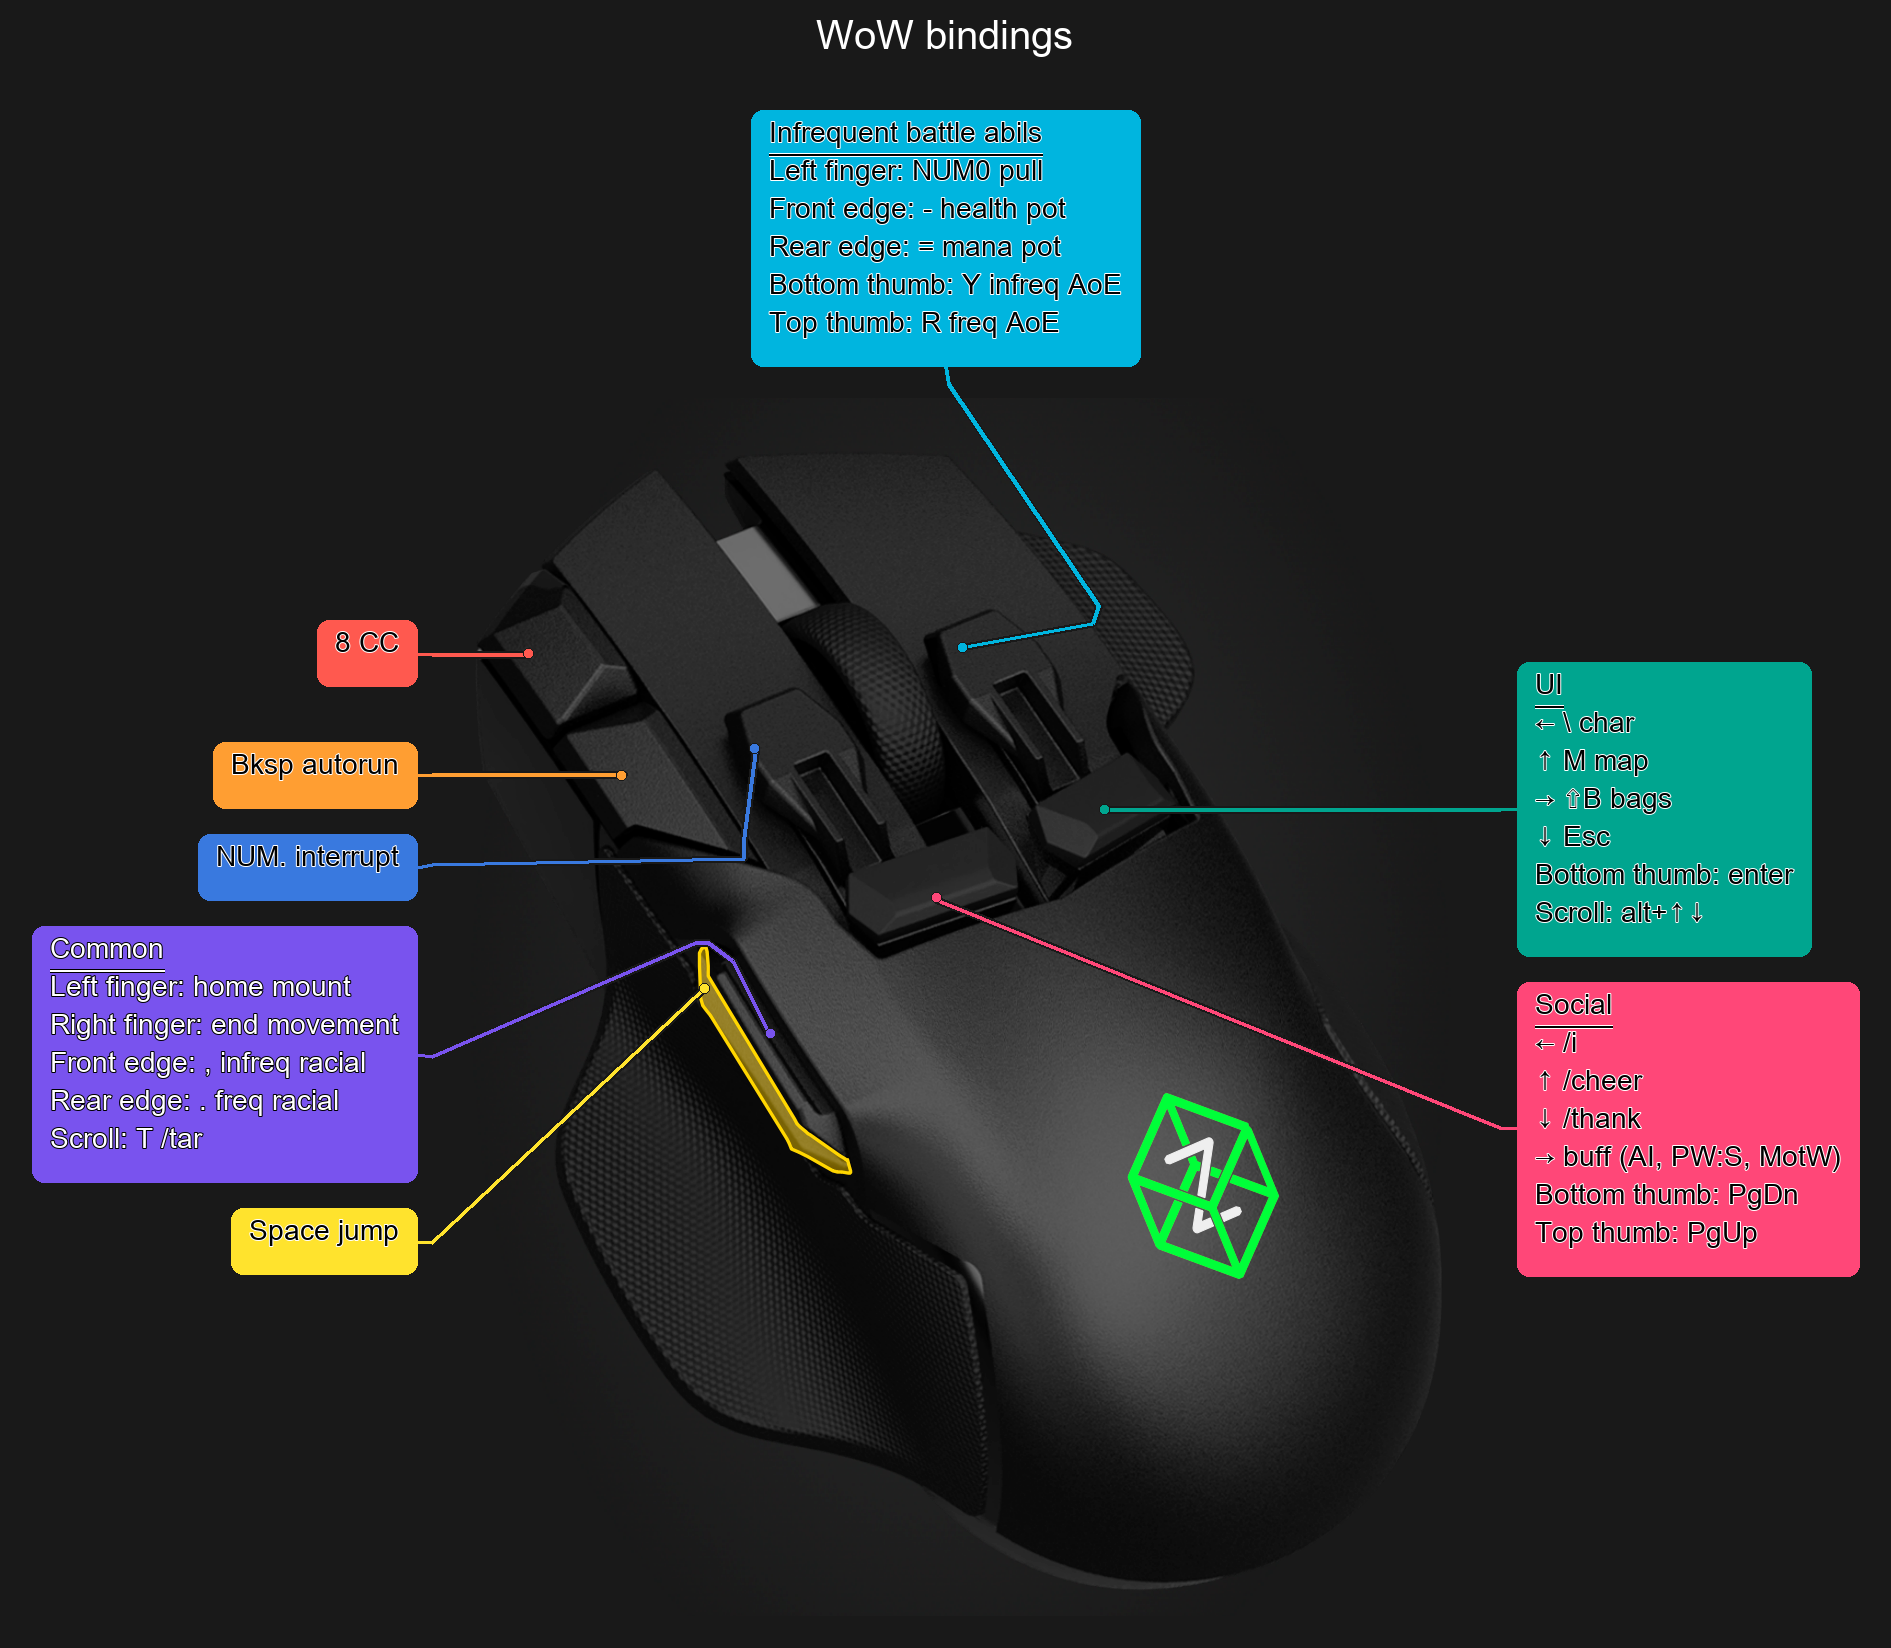
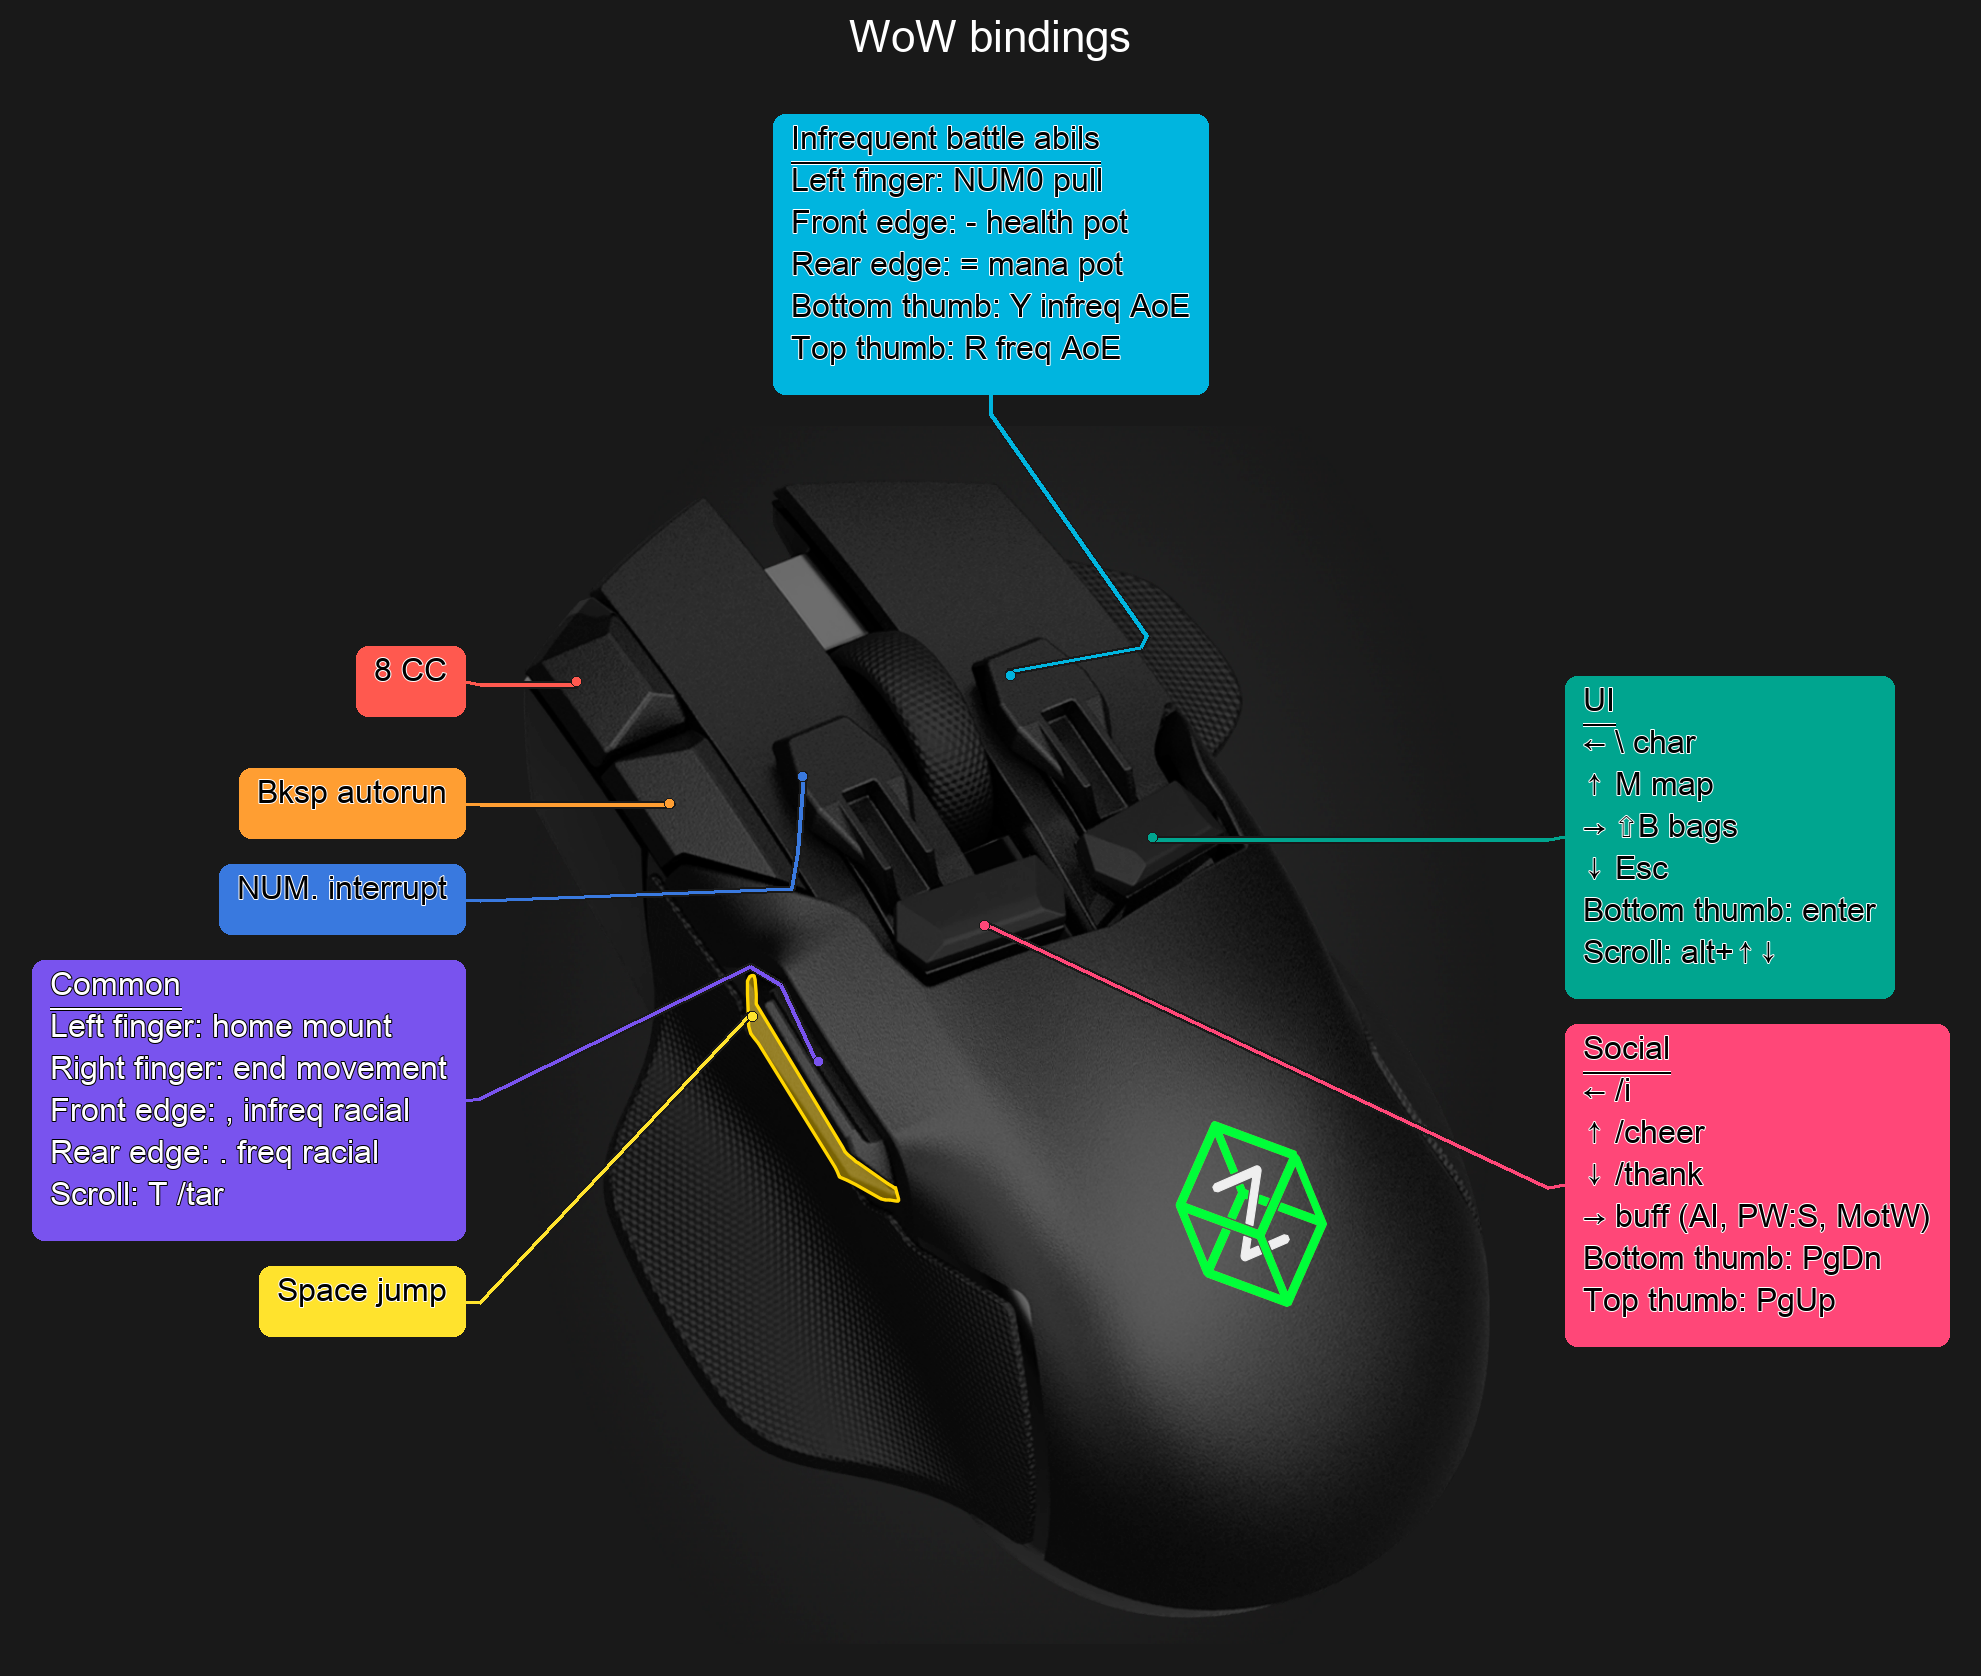
Support configurable font size and enlarge WoW labels to 32px

diff --git a/render.py b/render.py
@@ -35,10 +35,13 @@ BUTTONS = {
 
 def validate(data):
     """Strict validation prevents unrelated JSON files silently becoming images."""
-    if not isinstance(data, dict) or set(data) - {'title', 'buttons'}:
-        raise ValueError('expected an object with only title and buttons')
+    if not isinstance(data, dict) or set(data) - {'title', 'font_size', 'buttons'}:
+        raise ValueError('expected an object with only title, font_size, and buttons')
     if 'title' in data and not isinstance(data['title'], str):
         raise ValueError('title must be a string')
+    size = data.get('font_size', 28)
+    if type(size) is not int or not 8 <= size <= 128:
+        raise ValueError('font_size must be an integer from 8 to 128 pixels')
     if not isinstance(data.get('buttons'), dict) or not data['buttons']:
         raise ValueError('buttons must be a nonempty object')
     for name, item in data['buttons'].items():
@@ -108,9 +111,11 @@ def make_cards(data, font):
         for binding in item['bindings']:
             lines.extend((line, False) for line in wrap(binding, font, 410))
         width = math.ceil(max(font.getlength(line) for line, _ in lines)) + 36
-        height = len(lines) * 38 + 28
+        line_height = max(font.size + 10,
+                          max(font.getbbox(line, anchor='lt')[3] for line, _ in lines) + 8)
+        height = len(lines) * line_height + 28
         cards.append(dict(name=name, side=BUTTONS[name][0], lines=lines,
-                          w=width, h=height, color=item.get('background', PALETTE[index])))
+                          w=width, h=height, line_height=line_height, color=item.get('background', PALETTE[index])))
     return cards
 
 
@@ -198,10 +203,13 @@ def route(mask, start, goal, step=6):
 
 def render(data, destination, font_path=None):
     validate(data)
-    font = load_font(28, font_path)
-    heading_font = load_font(40, font_path)
+    font_size = data.get('font_size', 28)
+    font = load_font(font_size, font_path)
+    heading_font = load_font(font_size + 12, font_path)
     title_lines = wrap(data.get('title', ''), heading_font, 1000) if data.get('title') else []
-    title_height = len(title_lines) * 54 + (24 if title_lines else 0)
+    title_line_height = max(heading_font.size + 14,
+                            max((heading_font.getbbox(line, anchor='lt')[3] for line in title_lines), default=0) + 8)
+    title_height = len(title_lines) * title_line_height + (24 if title_lines else 0)
     cards = make_cards(data, font)
     size, (ox, oy) = layout(cards, title_height)
     canvas = Image.new('RGB', size, BACKGROUND)
@@ -244,15 +252,16 @@ def render(data, destination, font_path=None):
         x,y = card['box'][:2]
         ink = foreground(card['color'])
         outline = '#ffffff' if ink == '#000000' else '#000000'
+        line_height = card['line_height']
         for line, underline in card['lines']:
             draw.text((x+18,y+12), line, font=font, fill=ink, anchor='lt',
                       stroke_width=1, stroke_fill=outline)
             if underline and line:
-                draw.line((x+18,y+44,x+18+font.getlength(line),y+44), fill=outline, width=4)
-                draw.line((x+18,y+44,x+18+font.getlength(line),y+44), fill=ink, width=2)
-            y += 38
+                draw.line((x+18,y+12+line_height-6,x+18+font.getlength(line),y+12+line_height-6), fill=outline, width=4)
+                draw.line((x+18,y+12+line_height-6,x+18+font.getlength(line),y+12+line_height-6), fill=ink, width=2)
+            y += line_height
     for index, line in enumerate(title_lines):
-        draw.text((size[0]//2, 20+index*54), line, font=heading_font, fill='white', anchor='mt')
+        draw.text((size[0]//2, 20+index*title_line_height), line, font=heading_font, fill='white', anchor='mt')
     destination = Path(destination)
     destination.parent.mkdir(parents=True, exist_ok=True)
     canvas.save(destination)

diff --git a/tests/test_render.py b/tests/test_render.py
@@ -4,6 +4,7 @@ import json
 from pathlib import Path
 import tempfile
 import unittest
+from unittest.mock import patch
 
 from PIL import Image
 import render
@@ -17,6 +18,29 @@ class RendererTests(unittest.TestCase):
                      {'buttons': {'scroll': {'bindings': []}}}):
             with self.subTest(data=data), self.assertRaises(ValueError):
                 render.validate(data)
+
+    def test_font_size_validation(self):
+        for size in (True, 0, 7, 129, 32.5, '32', None):
+            with self.subTest(size=size), self.assertRaisesRegex(ValueError, 'font_size'):
+                render.validate({'font_size': size, 'buttons': {'scroll': {'bindings': ['Map']}}})
+
+    def test_custom_font_size_scales_rendered_text_and_cards(self):
+        profile = {'title': 'Font size example',
+                   'buttons': {'scroll': {'title': 'Scroll', 'bindings': ['Map → zoom']}}}
+        with tempfile.TemporaryDirectory() as directory:
+            for size in (None, 32, 64):
+                data = dict(profile)
+                if size is not None:
+                    data['font_size'] = size
+                with patch.object(render, 'load_font', wraps=render.load_font) as loader:
+                    render.render(data, Path(directory)/f'{size}.png')
+                expected = 28 if size is None else size
+                self.assertEqual([call.args[0] for call in loader.call_args_list],
+                                 [expected, expected+12])
+        small = render.make_cards(profile, render.load_font(28))[0]
+        large = render.make_cards(profile, render.load_font(64))[0]
+        self.assertGreater(large['h'], small['h'])
+        self.assertGreater(large['line_height'], small['line_height'])
 
     def test_default_colors_are_unique_and_stable(self):
         font = render.load_font(28)

diff --git a/README.md b/README.md
@@ -45,6 +45,7 @@ corrected. It uses the default unique button colors. Run the command above to ge
 ```json
 {
   "title": "WoW bindings",
+  "font_size": 32,
   "buttons": {
     "left_fingertip": {
       "background": "#ff594f",
@@ -59,6 +60,10 @@ corrected. It uses the default unique button colors. Run the command above to ge
 ```
 
 - The outer `title` is optional and appears above the image.
+- The outer `font_size` sets label and card-heading text size in pixels. It is
+  optional (default: 28), and must be an integer from 8 to 128. The image title
+  uses 12px larger text. Line spacing and card heights adjust automatically.
+  `WoW.json` uses 32px, 4px larger than the original labels.
 - `buttons` is a nonempty object. Omit any button you don't want to annotate.
 - Each button's `title` is optional. If present and nonempty, it appears above its
   bindings and is underlined. An omitted title leaves no heading or blank line.
